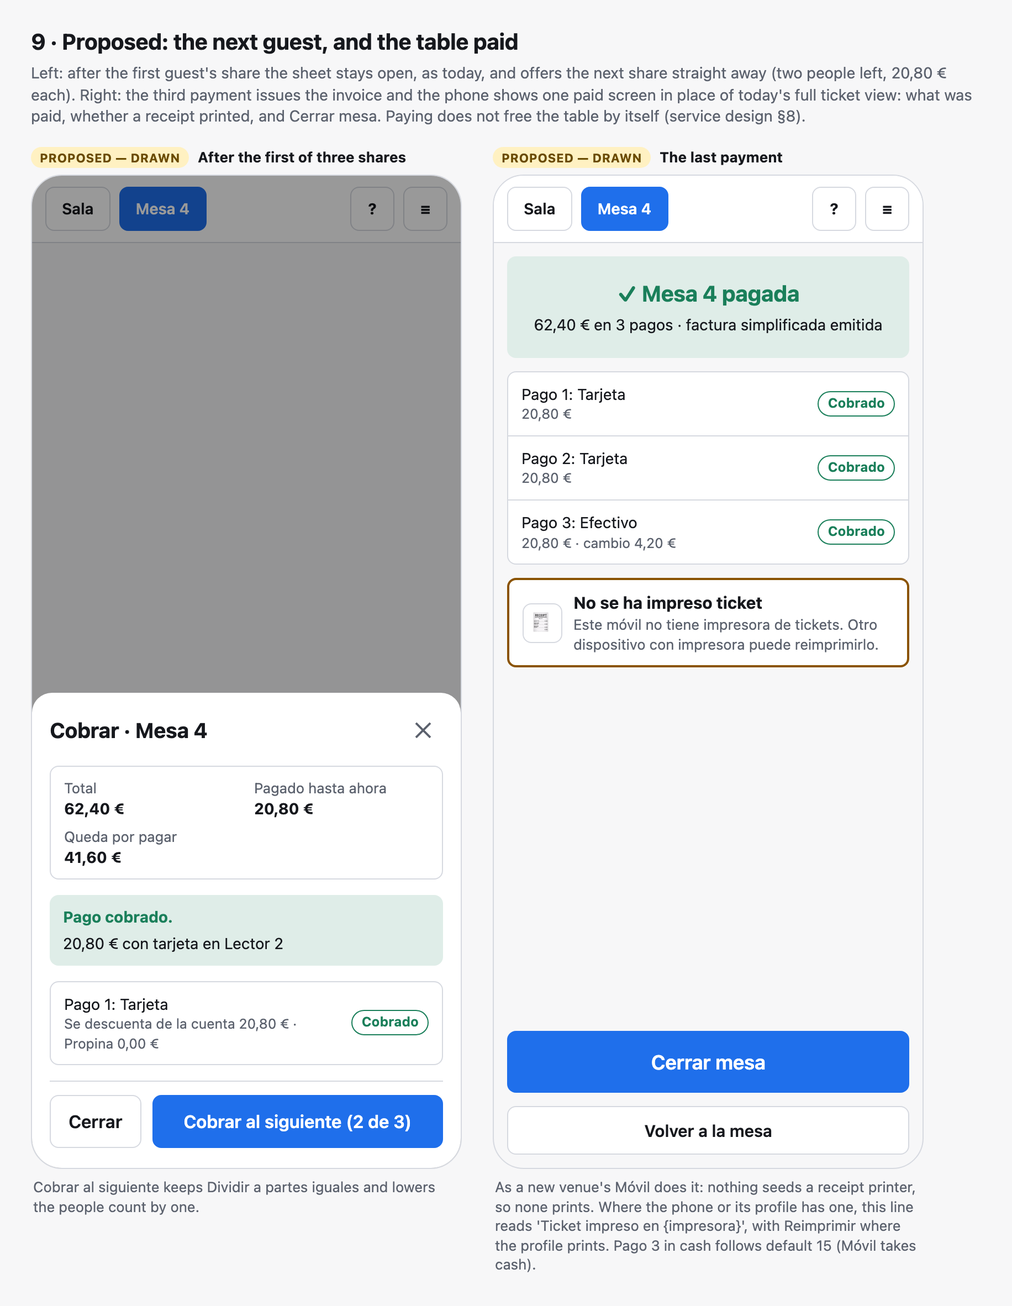
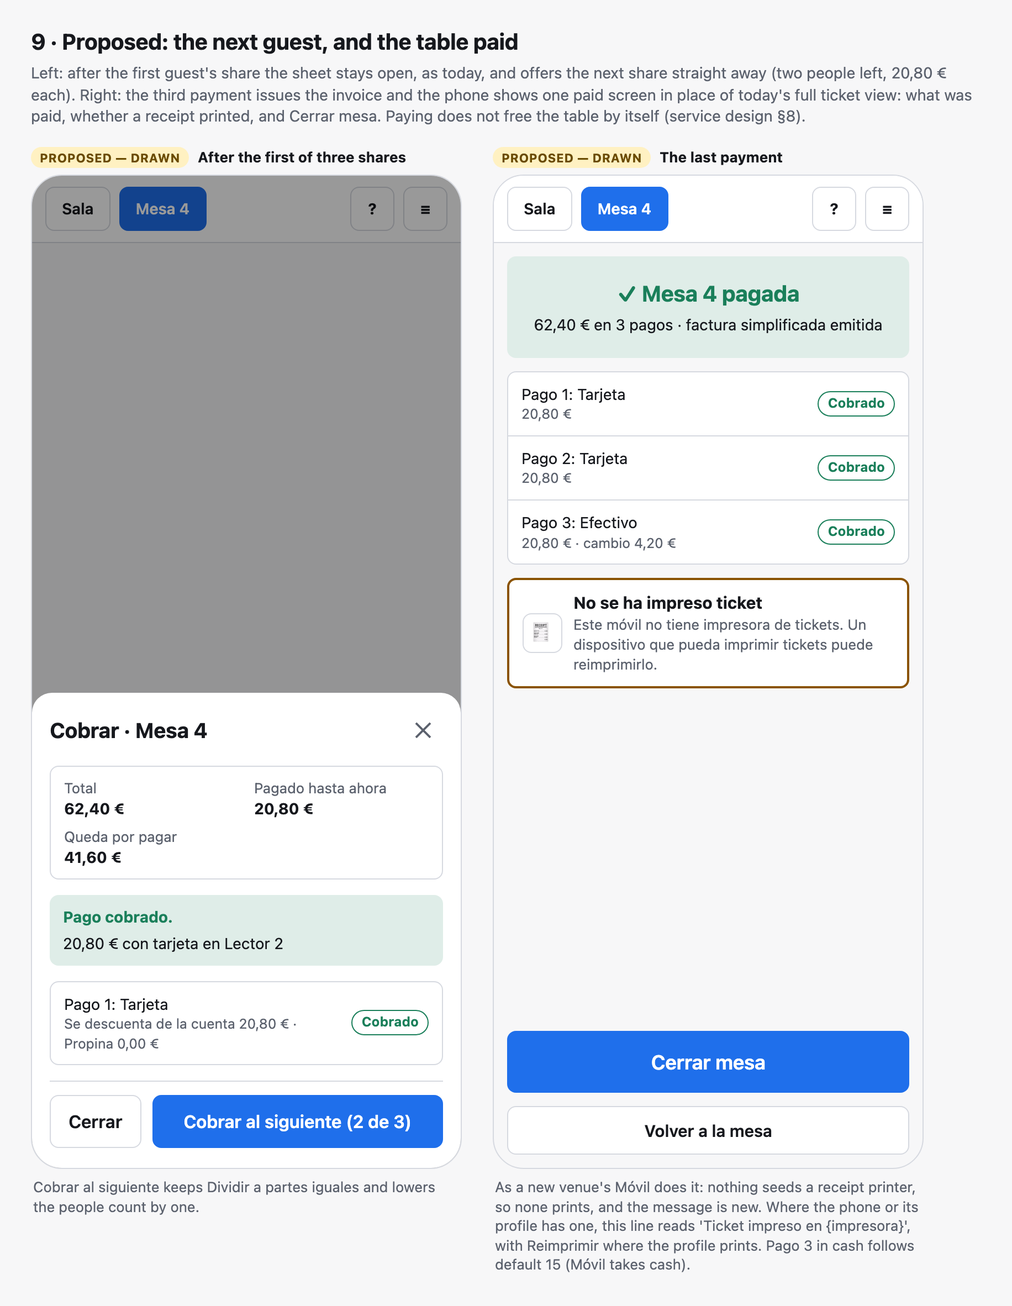
A796 design, round 3: an honest Q1 example and a wider defect
Fixes from a narrow claim check of the second revision, each re-read
against the cited code:
- Q1's example no longer attributes the design file's "goes stale
  between bills" to the owner, and no longer assumes the reader always
  stays in the waiter's hand within a bill. It names when it can change
  hands and states the trade-off: one tap per bill against one per guest.
- The resend defect covers any bill payment, not only a card: the till
  keys the kept id on the bill and the request, which names no guest,
  and keeps it through closing, reopening and logging out. The same
  amount, the same units of a line, or the same cash handed over
  collide; the dialog shows the first payment's state. The design's
  section 2.3, default 7 and the backlog entry say so.
- What survives a takeover: the payments rows keep the reader each
  payment was charged on, which is not the last one picked up; the
  design says why the phone-kept "last held" reader is still the right
  one.
- Receipts: the automatic print follows the bill's zone, else its
  department; a presented bill whose invoice was already issued prints
  nothing on payment; a reprint needs the requesting device's
  print-receipt, a printer and the person's zones; the "nothing printed"
  message is new.
- Smaller corrections: POST /api/pay checks take-orders as well; the
  re-enable citation; SumUp's polls can outlast the phone's 150 seconds;
  the bill is also re-read after a refund; the only cancel route is the
[…]

diff --git a/docs/superpowers/specs/2026-10-19-a796-handheld-payments-design.md b/docs/superpowers/specs/2026-10-19-a796-handheld-payments-design.md
@@ -74,11 +74,16 @@ hand.
   `apps/server/src/till-api.ts:329-334`). A device cannot opt out of its profile's default (W100's
   Q1, kept by the owner on 2026-10-07; `docs/backlog/till.md`).
 - **What the server remembers.** The phone's explicit choice (`device_card_readers`) outlives the
-  holding: disabling the device releases the reader but keeps the choice, and re-enabling takes it
-  back if free (`device-delete.ts:183`, `:201`; only deleting the device clears it, `:205`). A
-  takeover clears the losing phone's choice (`device-readers.ts:319-328`), and a profile move lets go
-  of a reader the new profile does not list (`settleDevice`). No "last reader used" survives a
-  takeover (`git grep -n -i "lastReader\|last_reader\|recentReader" -- apps packages`, no hits).
+  holding: disabling the device releases the reader but keeps the choice (`device-delete.ts:183`),
+  and re-enabling takes it back if free, and otherwise puts the device on Use default
+  (`apps/server/src/device.ts:117-119`; `settleDeviceReader`); only deleting the device clears it
+  (`device-delete.ts:205`). A takeover clears the losing phone's choice
+  (`device-readers.ts:319-328`), and a profile move lets go of a reader the new profile does not list
+  (`settleDevice`). No record of the last reader a phone _held_ survives a takeover
+  (`git grep -n -i "lastReader\|last_reader\|recentReader" -- apps packages`, no hits). The
+  `payments` rows keep the reader each payment was charged on (`payments.reader_id`,
+  `packages/payments/src/schema/payments.ts:60`, written at `packages/payments/src/store.ts:93`),
+  which is not the same as the last one picked up.
 - **Not shown:** whether a reader is reachable, or its battery; the battery only raises a dashboard
   alert (`apps/server/src/alert-sources.ts:706-717`).
 
@@ -130,25 +135,33 @@ hand.
   idempotency key per bill payment (`packages/payments-stripe/src/provider.ts:167-168`). A526 (#1579,
   `c7200b024`) added the matching check for presented orders (`refusePlacedPaymentInFlight`,
   `apps/server/src/till-sale.ts:1392`).
-- **Live defect (read, not run): a second guest's identical payment can be answered with the
-  first's.** The resend id is keyed on the bill plus the confirmed request (`submissionFor`,
-  `bill-payment.ts:144-150`), and an unanswered submission is kept until an answer comes
-  (`unansweredAfter`, `:173-177`; set at `till-app.ts:12130`). So: guest 1's "Aportar 20,00 €" by
-  card gets no answer (Wi-Fi drop) but is in fact charged; guest 2 then asks for the same 20,00 € by
-  card; the phone reuses guest 1's id, the server finds guest 1's payment with the same fingerprint
-  and replays it (`bill-payments.ts:1050-1055`). Guest 2's card is never asked, and the dialog says
-  "Pago cobrado". Equal shares escape it, because the people-left count changes the request. Fixed
+- **Live defect (read, not run): the next identical bill payment can be answered with the
+  unanswered one.** After a bill payment gets no answer, the till keeps its submission id keyed on
+  the bill and the confirmed request (`submissionFor`, `bill-payment.ts:144-150`, key
+  `JSON.stringify([billId, confirmation])` at `:149`). The confirmation carries only the request —
+  the way paid, the amount or lines, the method, the reader, what is applied and the tip — nothing
+  that names the guest. The kept submission changes only when a send ends (`unansweredAfter`,
+  `:173-177`; set at `till-app.ts:12130`, the one write besides its declaration at `:2640`): closing
+  the dialog, going back, reopening it or logging out keep it. So the next identical payment on that
+  bill from this phone reuses the id: a contribution of the same amount, the same units of the same
+  line, or the same cash handed over, by any method. The server replays the first payment
+  (`beginBillPayment`, `bill-payments.ts:1050-1055`): the second guest's payment is never recorded (a card is never asked), and
+  the dialog shows the first payment's state — "Pago cobrado" once it was charged, "El pago con
+  tarjeta sigue en curso…" while it is pending. An equal share escapes only when the number of people
+  left is lowered, because that number is part of the request (`bill-pay-dialog.ts:711-712`). Fixed
   here by default 7; logged in the backlog as its own entry, because it is live today.
 - **That id lives only in the page's memory** (`till-app.ts:2640`). An app-driven reload waits for
   it (`till-app.ts:1410-1422`); a phone that kills the browser loses it.
-- **A reader that stops answering.** SumUp's reader, the deli's, is polled up to 120 times a second
-  apart (`packages/payments-sumup/src/provider.ts:34-38`; Stripe's 60, `payments-stripe/src/provider.ts:65-66`),
-  under the phone's own 150-second limit. An unanswered payment stays pending, its amount reserved;
+- **A reader that stops answering.** SumUp's reader, the deli's, is polled up to 120 times, a second
+  apart, each poll a request to SumUp (`packages/payments-sumup/src/provider.ts:34-38`, `:266-276`;
+  Stripe's 60, `payments-stripe/src/provider.ts:65-66`); the phone stops waiting after 150 seconds
+  (`TABLE_REQUEST_LIMIT_MS`, `apps/till/src/state/draft-sync.ts:78`), which can come first. An unanswered payment stays pending, its amount reserved;
   the bill payment loop re-checks pending payments every minute and files the ones the provider
   reports charged (`apps/server/src/bill-payments-loop.ts:95-145`; `BILL_PENDING_RECHECK_MS`,
   `apps/server/src/boot.ts:498`; A764, #1818, for Stripe). The phone shows "El pago con tarjeta
   sigue en curso…" (`bill_pay.card_pending`) and **never re-reads by itself**: only on opening the
-  dialog, after an answer or after a refusal (`till-app.ts:12053`, `:12194`, `:12233`).
+  dialog, after an answer, after a refusal or after a refund (`till-app.ts:12053`, `:12194`,
+  `:12233`, `:12426`).
 - **A reader taken mid-payment.** For a bill payment the holder is checked twice: in
   `resolvePayReader`'s own transaction before anything is written (`till-api.ts:346`), and again in
   `insertAttempting` (`packages/payments/src/store.ts:163`) after the pending bill payment row has
@@ -159,15 +172,21 @@ hand.
 
 ### 2.4 Receipts, cash and the drawer
 
-- **The receipt prints on the paying phone's receipt printer**, automatically where the department
-  prints receipts automatically (`apps/server/src/receipt-print.ts:274-278`; the invoice is filed
-  under the paying device, `bill-payments.ts:1259-1260`). That printer is the phone's own choice or
+- **The receipt prints on the receipt printer of the phone that took the last payment**
+  (`bill-payments.ts:1259-1260`), automatically where the bill's zone, or else its department, prints
+  receipts automatically (`apps/server/src/receipt-print.ts:274-278`; `zoneReceiptMode ??
+  departmentReceiptMode`, `packages/venue-service/src/operations.ts:614`). A presented bill whose
+  invoice was already issued prints nothing on payment, on either path: only issuing an invoice
+  queues a receipt (`enqueueSaleReceipt` at `till-sale.ts:1023`, `:1633`, `:1798`; none in
+  `finalizeSettle` or collect's settle branch). That printer is the phone's own choice or
   its profile's default, or a portable printer it holds; **with none, nothing prints**, and
   provisioning seeds no printer (`git grep -n -i printer -- packages/provisioning/src ':!*.test.ts'`,
   no hits). The automatic print checks no profile action; `print-receipt` gates only explicit
-  prints, reprints and deliveries (`grep -n '"print-receipt"' apps/server/src/*.ts`). Another device
-  can reprint a sale on its own printer (`POST /api/transactions/:saleId/reprint`,
-  `apps/server/src/transaction-receipt-api.ts:43-68`).
+  prints, reprints and deliveries (`grep -n '"print-receipt"' apps/server/src/*.ts`). A reprint
+  prints on the requesting device's printer and needs that device's `print-receipt`, a receipt
+  printer, and the person's zones (`POST /api/transactions/:saleId/reprint`,
+  `apps/server/src/transaction-receipt-api.ts:43-68`). The till has no "nothing printed" message
+  today.
 - **No digital receipt for a simplified invoice.** Email exists only for full invoices
   (`apps/server/src/invoice-delivery-actions.ts:136`).
 - **A card on a connected reader never opens the drawer** (`takeReaderBillPayment`,
@@ -242,8 +261,8 @@ phone holds Lector 2.
   stays for a manager on the dashboard, as today.
 - **The phone loses Wi-Fi mid-payment** (picture 8, right). The card carries on, because the server
   drives the reader. Until an answer comes the sheet offers only **Comprobar de nuevo**, which resends
-  under the same id; no new payment can be started on that bill from this phone, which closes the
-  defect in §2.3 (default 7). If the browser was killed and the id lost, the reopened sheet shows the
+  under the same id; no new payment of any way or method can be started on that bill from this
+  phone, which closes the defect in §2.3 (default 7). If the browser was killed and the id lost, the reopened sheet shows the
   payment "En curso" with its amount reserved, and asks "Hay un pago con tarjeta en curso en esta
   cuenta. ¿Cobrar otro?" before another card on the same bill. The server is unchanged here: the
   owner kept W100's Q6 default (no rule against the holding phone starting two).
@@ -284,7 +303,8 @@ reset rather than migrated (`CLAUDE.md` §3). Nothing in payment handling change
 `packages/identity/src/permissions.ts:45`). The device's profile needs the action for the method, as
 the route-to-action map at the top of `apps/server/src/till-api.profile-actions.test.ts` records:
 row `:87`, bill payments — `take-cash` / `hand-keyed-card-payment` / `integrated-card-payment`; row
-`:75`, `POST /api/pay` — `integrated-card-payment`; row `:86`, collect — `take-cash` /
+`:75`, `POST /api/pay` — `integrated-card-payment`, then `take-orders` (both checked,
+`till-api.ts:1691-1692`); row `:86`, collect — `take-cash` /
 `hand-keyed-card-payment`; rows `:101-102`, `print-receipt` for a print or reprint. Picking up a
 reader needs no action (`:136-137`, "choosing equipment is not printing, paying or opening the
 drawer"). No drawer action is involved.
@@ -356,26 +376,34 @@ are given.
 5. **Takeover rules stay as built**: scan takes, list asks, busy refuses (W100, kept by the owner
    2026-10-07).
 6. **Pick-up happens inside the sheet**, and the remembered reader is the last one this phone held,
-   kept on the phone, shown first and labelled, never selected. The server's own record of the
-   phone's choice is not enough: a takeover clears it (`device-readers.ts:319-328`). Hardware
-   decisions O4: "The handheld should remember the last reader used, but only as a convenience".
-7. **While a payment is unanswered the sheet offers only "Comprobar de nuevo"** (same id), and before
-   a second card on a bill with a card in progress it asks first. This closes the §2.3 defect on the
+   kept on the phone, shown first and labelled, never selected. The server's record of the phone's
+   choice is not enough, because a takeover clears it (`device-readers.ts:319-328`); and the reader
+   of this phone's last payment (`payments.reader_id`) is not either, because a waiter picks a
+   reader up before charging on it, and may pick one up and hand it on without charging. "Last
+   held" is the fact O4 names: "The handheld should remember the last reader used, but only as a
+   convenience". Kept on the phone, it needs no server change.
+7. **While a bill payment of any way or method is unanswered, the sheet offers only "Comprobar de
+   nuevo"** (same id) for that bill — no new payment, and the kept id is dropped only when an answer
+   comes — and before a second card on a bill with a card in progress it asks first. This closes the §2.3 defect on the
    phone. **The server is unchanged**: W100's Q6 default ("app-level checks stop OTHER devices, not
    the holder starting two at once") was kept by the owner on 2026-10-07 ("Ok", keep every default;
    lane C's questions file, 2026-10-07 ~08:50).
 8. **An uncertain payment re-reads itself** every 5 seconds while the sheet shows it, and says not to
    take the same guest's money another way.
-9. **No Cancel while the card is at the reader**: no route cancels a bill payment at the reader today.
+9. **No Cancel while the card is at the reader**: no route cancels a card at a real reader today (the
+   only cancel route, `POST /api/demo-reader/cancel`, is the simulator's pretend reader, mounted only
+   for it, `till-api.ts:1178`, `:1220`).
 10. **"Cobrar al siguiente"** after a share, keeping the way chosen.
 11. **Settled: the table closes only on Cerrar mesa**, now a big button on the paid screen. Service
     design §8 (owner-approved 2026-09-26): "Paying does not by itself free an occupied table. By
     default, **Finish table** closes the visit." Once built, it first runs A758's check (D12, owner
     answer Q40, 2026-10-18): "Finish table warns about dishes not served and offers 'Cancel and
     refund' or 'Cancel, no refund'".
-12. **Receipts keep today's rules**: the paying phone's receipt printer, automatic where the department
-    prints automatically; with no printer the paid screen says none printed and that another device
-    can reprint it. No digital receipt.
+12. **Receipts keep today's printing rules**: on paying, the paying phone's receipt printer prints
+    automatically where the bill's zone (or its department) prints automatically; a presented bill
+    whose invoice was already issued prints nothing on payment. New: with nothing printed, the paid
+    screen says so, and that a device whose profile may print receipts can reprint it. No digital
+    receipt.
 13. **Tips: A793's seam only.**
 14. **Whether the sheet sits at the foot of the screen** (as drawn) or stays a centred dialog is left
     to the plan; it is the shared `wt-dialog` either way.
@@ -400,14 +428,20 @@ are given.
 **Q1. How often should the phone ask which reader is in the waiter's hand — on the first card of each
 bill, or before every card?**
 Example: Mesa 4, three guests, 62,40 €, split three ways. Ana confirms Lector 2 for the first guest's
-20,80 €. A minute later the second guest pays. Your 2026-09-18 note says a remembered reader "goes
-stale between bills"; within one bill it is the same reader in the same hand.
+20,80 €. A minute later the second guest pays. Usually Lector 2 is still in Ana's hand at the table,
+but not always: if Ana put it down to fetch the change and Marc took it to Mesa 9 without scanning
+it, Ana's phone still holds Lector 2, and charging it would show 20,80 € to Marc's guest (§4).
 - (a) **First card of each bill** (picture 4): the second and third guests' cards go straight to
   Lector 2, still named on the screen with Cambiar beside it; the next table's first card asks again.
-- (b) **Every card** (picture 5): the same question three times for Mesa 4.
+  One tap per bill; the rarer case of the reader changing hands in the middle of a bill is left to
+  the waiter reading the reader's name on the screen.
+- (b) **Every card** (picture 5): the question before each guest's card, three times for Mesa 4. It
+  closes that case too, at one tap per guest.
 
-Recommended: **(a)** — it guards the moment the reader can have changed hands (between bills) without
-an extra tap per guest, in keeping with "straight to work".
+Recommended: **(a)** — the reader is most likely to have changed hands between bills, when it goes
+back to the bar or to another waiter; within a bill it usually stays at one table, and the name on the
+button is still in front of the waiter. "Straight to work" argues against a tap per guest. Choose (b)
+if readers are often passed between waiters during service.
 
 ## 10. Provenance
 

diff --git a/docs/backlog/till.md b/docs/backlog/till.md
@@ -1217,37 +1217,6 @@ Left open by W97 (#1311), found in its review and not fixed on the branch:
   last today. Edit and Duplicate fail with a read error when the departments and zones read
   fails, and its lists do not update while the editor is open.
 
-## Owner questions, each with the default built (answer when convenient)
-
-Left open by W100 (#1332), the [equipment plan](../superpowers/plans/2026-10-04-device-equipment-and-independent-drawers.md):
-
-- **Removed: staff can no longer switch a device's printing off.** The till's "No printer"
-  choice is gone and the dashboard's empty choice now means Use default, so a device is without
-  a printer, reader or drawer only when its profile's default is None (owner question Q1
-  below).
-- **Not shown: whether equipment is disconnected.** The till says an item is switched off when
-  a printer is disabled or a reader is disabled or unpaired; nothing stores whether a printer or
-  reader is online (Q7).
-- Owner questions, each with the default built. **Answered 2026-10-07: the owner kept every
-  default** ("Ok", keep every default; lane C's questions file, 2026-10-07 ~08:50):
-  - Q1. A device cannot override its profile's default with "none" — owner question, default
-    built.
-  - Q2. A card reader is never shared by several devices at once; every reader has one holder —
-    owner question, default built.
-  - Q3. A payment stuck "attempting" (started, outcome unknown) after a crash keeps its reader
-    busy until the sweep or a manager resolves it — owner question, default built.
-  - Q4. QR labels are decoded with the `jsqr` package, not the browser's own decoder — owner
-    question, default built.
-  - Q5. Card readers have no location, which does not matter while a venue has one location —
-    owner question, default built.
-  - Q6. "One payment in progress per reader" is not a database rule: the checks stop another
-    device, not the holding device starting two payments at once — owner question, default
-    built.
-  - Q7. Disconnected equipment is not shown (above) — owner question, default built.
-  - Also as built: a till's equipment list (`GET /api/device/equipment`) needs only a joined
-    device, not a signed-in person, so a locked till can see who holds an item on another
-    device (staff names are already public through `/api/staff`).
-
 ## Table states and signals (A267)
 
 - **Table states and signals (A267) — OPEN, needs a design session (owner, 2026-10-03).** Which
@@ -1505,6 +1474,29 @@ while 4 and 5 needed moving, so Leave it here only makes it last until the next 
 whether those reads should follow today's map once a group is left.
 
 ## Decisions and deliberate limits
+
+### Device equipment defaults (W100, #1332; owner kept every default, 2026-10-07)
+
+From the [equipment plan](../superpowers/plans/2026-10-04-device-equipment-and-independent-drawers.md).
+The owner's answer, 2026-10-07 ~08:50 (lane C's questions file): "Ok", keep every default.
+
+- **Staff cannot switch a device's printing off.** The till's "No printer" choice is gone and the
+  dashboard's empty choice means Use default, so a device is without a printer, reader or drawer
+  only when its profile's default is None (Q1).
+- Q1. A device cannot override its profile's default with "none".
+- Q2. A card reader is never shared by several devices at once; every reader has one holder.
+- Q3. A payment stuck "attempting" (started, outcome unknown) after a crash keeps its reader busy
+  until the sweep or a manager resolves it.
+- Q4. QR labels are decoded with the `jsqr` package, not the browser's own decoder.
+- Q5. Card readers have no location, which does not matter while a venue has one location.
+- Q6. "One payment in progress per reader" is not a database rule: the checks stop another device,
+  not the holding device starting two payments at once.
+- Q7. Disconnected equipment is not shown: the till says an item is switched off when a printer is
+  disabled or a reader is disabled or unpaired; nothing stores whether a printer or reader is
+  online.
+- Also as built: a till's equipment list (`GET /api/device/equipment`) needs only a joined device,
+  not a signed-in person, so a locked till can see who holds an item on another device (staff
+  names are already public through `/api/staff`).
 
 ### Device zones and period menu memory (A740)
 

diff --git a/docs/backlog.md b/docs/backlog.md
@@ -3032,9 +3032,9 @@ _Formerly A4; part of A9._ Detail: [backlog/till.md](backlog/till.md).
     and "Who can sign in" could become widgets of their own.
 
 - **Loose ends left by W100 (#1332).**
-  - Owner questions, each with the default built (answer when convenient). Removed: staff can no
-    longer switch a device's printing off. Not shown: whether equipment is disconnected.
-    [Detail](backlog/till.md#owner-questions-each-with-the-default-built-answer-when-convenient)
+  - Its owner questions were answered 2026-10-07: every default kept (staff cannot switch a
+    device's printing off; disconnected equipment is not shown).
+    [Decision](backlog/till.md#device-equipment-defaults-w100-1332-owner-kept-every-default-2026-10-07)
   - If the till's last 15-second check said a reader was busy and that payment has since finished,
     picking it skips "Take it?" and the server refuses it as held, so staff pick again. Found by
     reading, not run.
@@ -3692,15 +3692,16 @@ _Formerly A6, and the old Track C's payments items; part of A9._ Detail: [backlo
   ([native app capabilities](superpowers/specs/2026-08-30-native-app-capabilities.md), N1/N2).
   [Detail](backlog/payments.md#slice-2--the-handheld-nfcqr-link)
 
-- **A second guest's identical bill payment can be answered with the first guest's** (read, not
-  run; found by A796's review). After a card bill payment gets no answer, the till keeps its
-  submission id keyed on the bill and the confirmed request (`submissionFor`,
-  `apps/till/src/state/bill-payment.ts`), so a second guest's identical "Aportar" of the same amount
-  reuses it and the server replays the first payment (`beginBillPayment`,
-  `apps/server/src/bill-payments.ts`): the second card is never asked, and the dialog says "Pago
-  cobrado". Equal shares escape it. Fix: while a payment is unanswered, offer only the resend (A796
-  design, default 7). First write the failing till case: an unanswered contribution, then an
-  identical one for the next guest.
+- **The next identical bill payment can be answered with an unanswered one** (read, not run; found
+  by A796's review). After a bill payment gets no answer, the till keeps its submission id keyed on
+  the bill and the confirmed request (`submissionFor`, `apps/till/src/state/bill-payment.ts`), so
+  the next identical payment on that bill from this phone reuses it. That covers a contribution of
+  the same amount, the same units of the same line, or the same cash handed over. The server then
+  replays the first payment (`beginBillPayment`, `apps/server/src/bill-payments.ts`): the second
+  guest's payment is never recorded (a card is never asked), and the dialog shows the first payment's state ("Pago cobrado" once
+  it was charged). An equal share escapes only when the number of people left is lowered. Fix:
+  while a payment is unanswered, offer only the resend (A796 design, default 7). First write the
+  failing till case: an unanswered contribution, then an identical one for the next guest.
 
 - **Loose ends left by W102 (NFC and equipment labels).**
   - **Check NFC pick-up on the box's address.** On the OnePlus 13, grant NFC at

diff --git a/docs/backlog/payments.md b/docs/backlog/payments.md
@@ -124,7 +124,7 @@ Picture: `mockups/a846-held-card-payments/01-record-what-was-done.png` (also `-d
   WASM. Also here: restoring `stripe_on_device` (Tap-to-Pay). Redsys and
   bank terminals are parked; Bizum research is under _Later and parked_.
   _2026-10-07: the printed QR sticker and the dropdown landed with W100 (#1332;
-  its open points are in [till.md](till.md#owner-questions-each-with-the-default-built-answer-when-convenient)).
+  its owner questions were answered 2026-10-07, every default kept: [till.md](till.md#device-equipment-defaults-w100-1332-owner-kept-every-default-2026-10-07)).
   One difference from the decision
   above: a card reader now has one holding device at a time, and a scan or a confirmed choice from
   the dropdown moves it to the waiter's device. NFC (W102) and Tap-to-Pay are still open._
